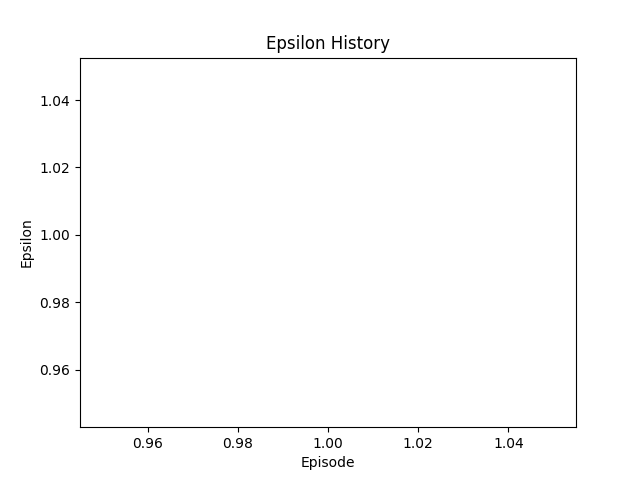
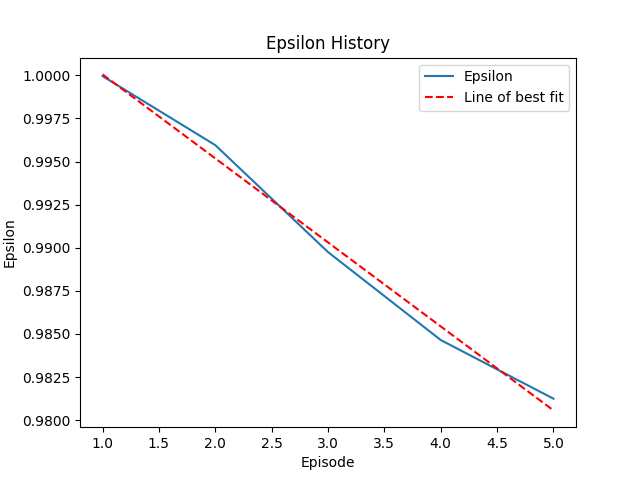
Finalized llc_full

diff --git a/DQN_Starting/llc_full.py b/DQN_Starting/llc_full.py
@@ -119,7 +119,7 @@ if __name__ == '__main__':
     env = gym.make('LunarLander-v3')
     agent = Agent(gamma=0.99, epsilon=1.0, batch_size=64, n_actions=4, epsilon_end=0.01, input_dims=[8], lr=0.003)
     scores, eps_history = [], []
-    n_games = 10
+    n_games = 5
 
     for i in range(n_games):
         score = 0
@@ -138,24 +138,34 @@ if __name__ == '__main__':
         eps_history.append(agent.epsilon)
         avg_score = np.mean(scores[-100:])
 
-        print('episode ', i % 11, 'score %.2f' % score,
+        print('episode ', i, 'score %.2f' % score,
               'average score %.2f' % avg_score,
               'epsilon %.2f' % agent.epsilon)
 
-    x = [i + 1 for i in range(n_games)]
+    x = [i + 1 for i in range(n_games)] 
 
-    # Plot scores
-    plt.plot(x, scores)
+    # Plot scores with line of best fit
+    plt.plot(x, scores, label='Scores')
+    z = np.polyfit(x, scores, 1)  # 1 for linear fit
+    p = np.poly1d(z)
+
+    plt.plot(x, p(x), "r--", label='Line of best fit')
     plt.xlabel('Episode')
     plt.ylabel('Score')
     plt.title('Lunar Lander Scores')
-    plt.savefig('lunar_lander_scores.png') # Save the plot
-    plt.show() #show the plot
+    plt.legend()
+    plt.savefig('lunar_lander_scores.png')
+    plt.show()
 
-    #Plot epsilon
-    plt.plot(x, eps_history)
+    '''Plot epsilon with line of best fit
+    plt.plot(x, eps_history, label='Epsilon')
+    z = np.polyfit(x, eps_history, 1)
+    p = np.poly1d(z)
+    
+    plt.plot(x, p(x), "r--", label='Line of best fit')
     plt.xlabel('Episode')
     plt.ylabel('Epsilon')
     plt.title('Epsilon History')
+    plt.legend()
     plt.savefig('lunar_lander_epsilon.png')
-    plt.show()
+    plt.show()'''
